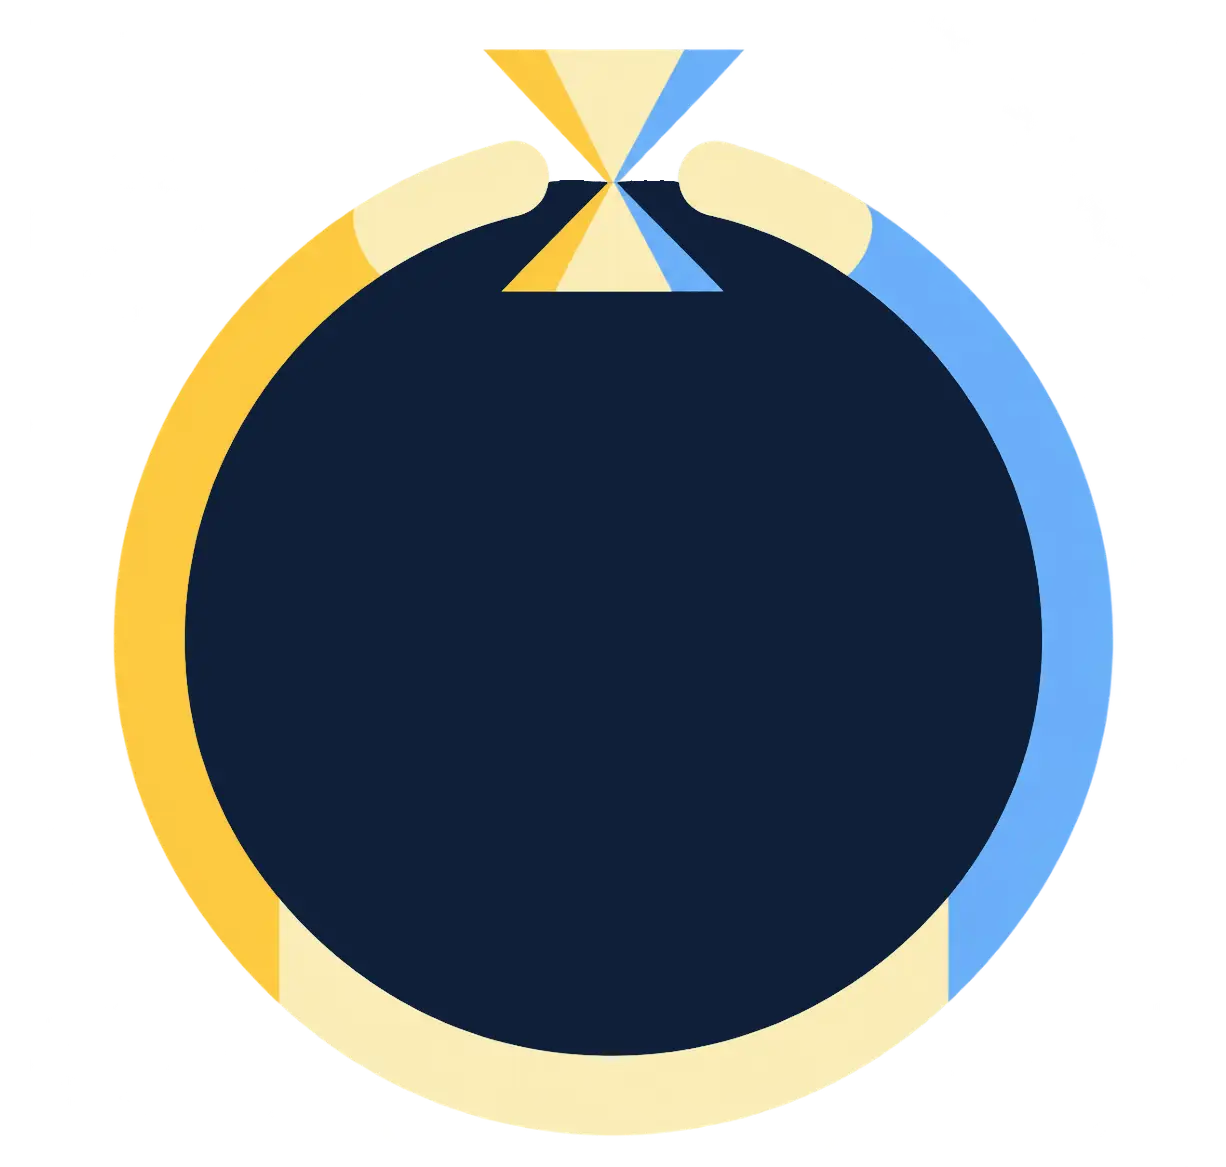
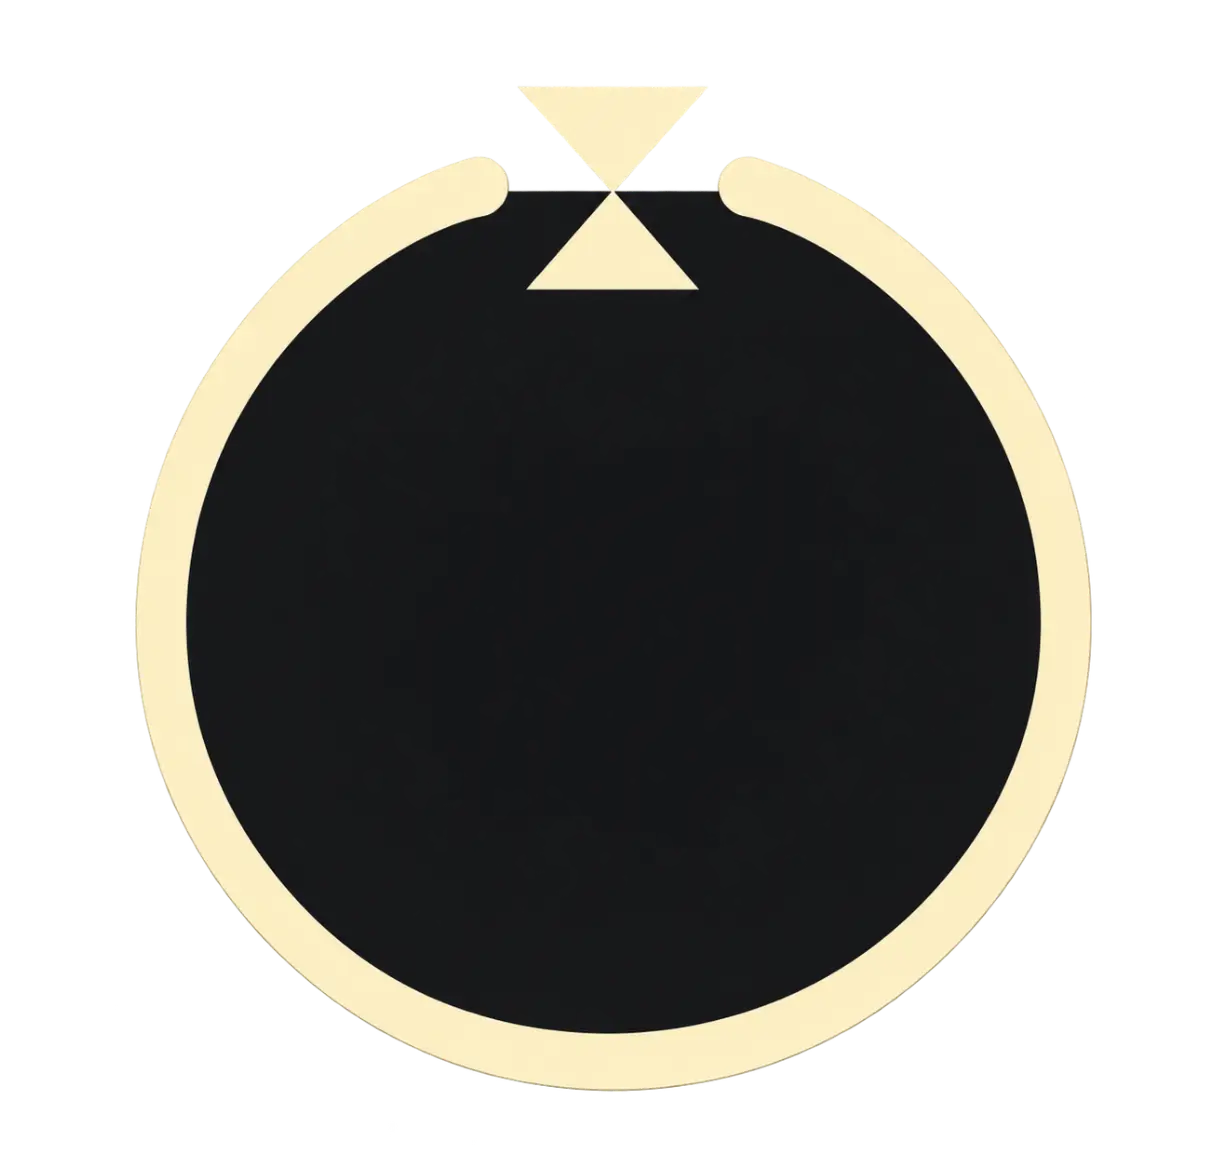
Cost.webp : troisieme passe, l'ecart du haut se remesure
Le sablier redescend encore (marge haute 4,03 % -> 7,20 % de la toile) et le
disque perd un cran (81,6 % -> 78,0 % de la largeur). La toile ne bouge pas,
donc le contain tient ; ORBE_CY passe de 0,0198 a 0,018.

Mesure sur la texture, en unites de carte : bord interieur du cadre 1,823 des
deux cotes, bord gauche du sujet 4,424 (ecart 2,601), sommet du sablier pose a
4,418 -- soit 2,595 en haut contre 2,601 a gauche. La colonne centrale montre
bien laiton, puis surface sombre, puis sablier.

Claude-Session: https://claude.ai/code/session_01KZ9nCsdAx7LsxofMKnUAi4

diff --git a/src/render/texture-carte.ts b/src/render/texture-carte.ts
@@ -363,19 +363,19 @@ const SILHOUETTES: Partial<Record<PisteCadre, readonly [number, number][]>> = {
  * qu'on VOIT.*
  *
  * Mesuré sur la texture, en unités de carte : le bord intérieur du cadre est à
- * 1,823 des deux côtés, le bord gauche du disque à **4,056** — donc un écart de
- * **2,233** — et le coefficient est celui qui pose le sommet du sablier là
+ * 1,823 des deux côtés, le bord gauche du disque à **4,424** — donc un écart de
+ * **2,601** — et le coefficient est celui qui pose le sommet du sablier là
  * aussi.
  *
- * *Il dépend donc du DESSIN, et il a déjà été remesuré une fois* : à la marge
- * haute de 2,23 % de la toile il valait 0,0246, à 4,03 % il vaut 0,0198. **Un
- * fichier qui rebouge le sablier le rouvre** — on remesure les trois repères,
- * le bord du cadre, le bord gauche du disque et le sommet du sablier, et rien
- * d'autre ne change.
+ * *Il dépend donc du DESSIN, et il se remesure à chaque version* : marge haute
+ * de 2,23 % de la toile → 0,0246 ; 4,03 % → 0,0198 ; 7,20 % → **0,018**. **Un
+ * fichier qui rebouge le sablier le rouvre** — on relève les trois repères (le
+ * bord du cadre, le bord gauche du sujet, le sommet du sablier) dans une sonde,
+ * et rien d'autre ne change.
  */
 const ORBE_L = 0.205 * LARGE
 const ORBE_CX = 0.022 * LARGE + ORBE_L / 2
-const ORBE_CY = 0.0198 * HAUT + ORBE_L / 2
+const ORBE_CY = 0.018 * HAUT + ORBE_L / 2
 
 /** L'écusson du coût : pointe en bas, comme sur toute carte qui coûte. */
 const ECUSSON: readonly [number, number][] = [

diff --git a/CLAUDE.md b/CLAUDE.md
@@ -8285,15 +8285,16 @@ gauche c'est le disque nu qui affleure. Posés à marge de toile égale, les deu
 dans l'autre sens : *une marge se mesure au bord qu'on VOIT.*
 
 Mesuré sur la texture, en unités de carte : le bord intérieur du cadre est à
-**1,823 des deux côtés**, le bord gauche du disque à 4,056 — donc un écart de
-**2,233** — et le coefficient est celui qui pose le sommet du sablier là aussi.
-Mesuré après : **2,233 à gauche contre 2,228 en haut.**
+**1,823 des deux côtés**, le bord gauche du sujet à 4,424 — donc un écart de
+**2,601** — et le coefficient est celui qui pose le sommet du sablier là aussi.
+Mesuré après : **2,601 à gauche contre 2,595 en haut.**
 
-**ET IL A DÉJÀ ÉTÉ REMESURÉ UNE FOIS**, Keko ayant redescendu le sablier dans
-la foulée : à une marge haute de 2,23 % de la toile le coefficient valait
-0,0246, à 4,03 % il vaut **0,0198**. *Les trois repères se relèvent en une
-sonde* — bord du cadre, bord gauche du disque, sommet du sablier — et rien
-d'autre ne bouge.
+**ET IL SE REMESURE À CHAQUE VERSION DU DESSIN**, Keko ayant repris le sablier
+deux fois de suite : marge haute de 2,23 % de la toile → 0,0246 ; 4,03 % →
+0,0198 ; 7,20 % → **0,018**. *Les trois repères se relèvent en une sonde* — le
+bord du cadre, le bord gauche du sujet, le sommet du sablier — et rien d'autre
+ne bouge. **C'est le prix d'une marge mesurée au bord qu'on voit**, et il est
+bien plus bas que celui d'un dessin rogné ou d'un symbole qui touche le cadre.
 
 **Le jonc du cadre de trésor et la valeur du butin descendent avec**, et c'est
 voulu : les deux lisent `ORBE_CY`, et *la valeur forme une ligne d'en-tête avec
